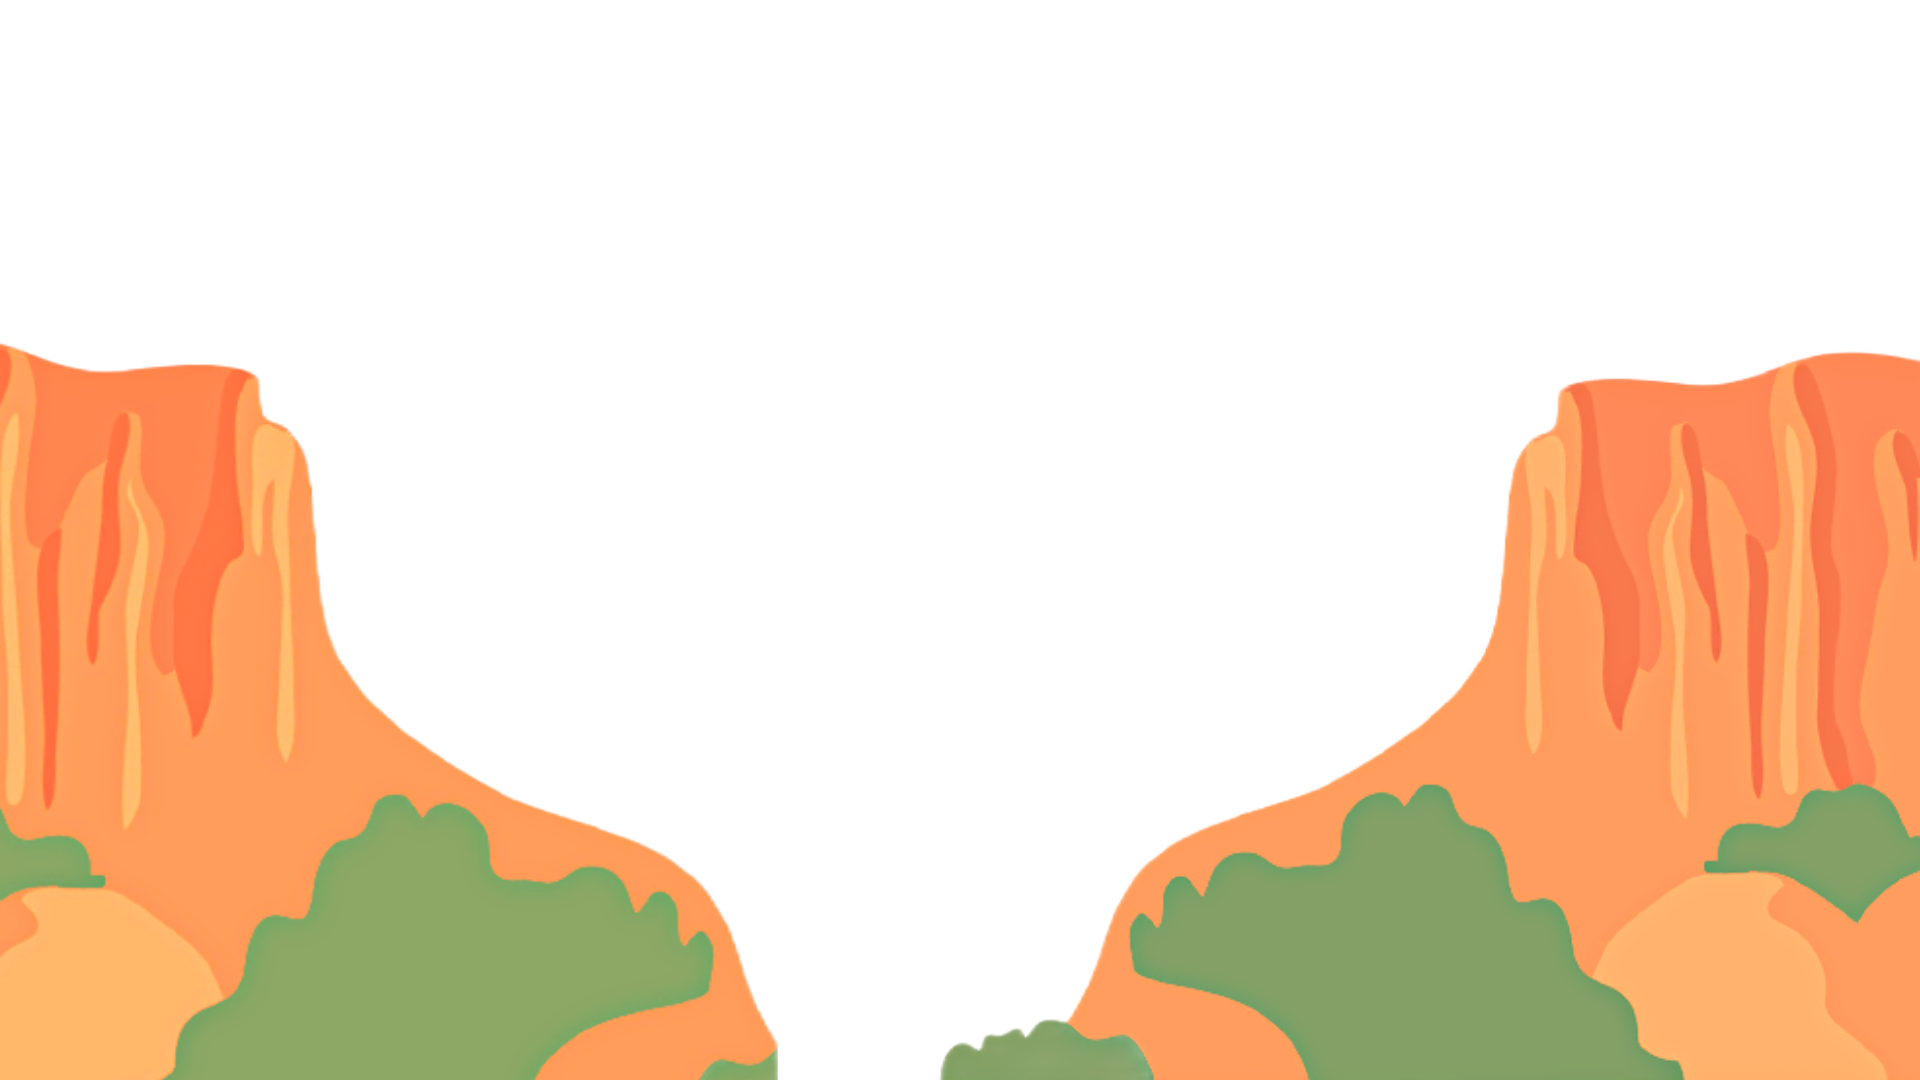
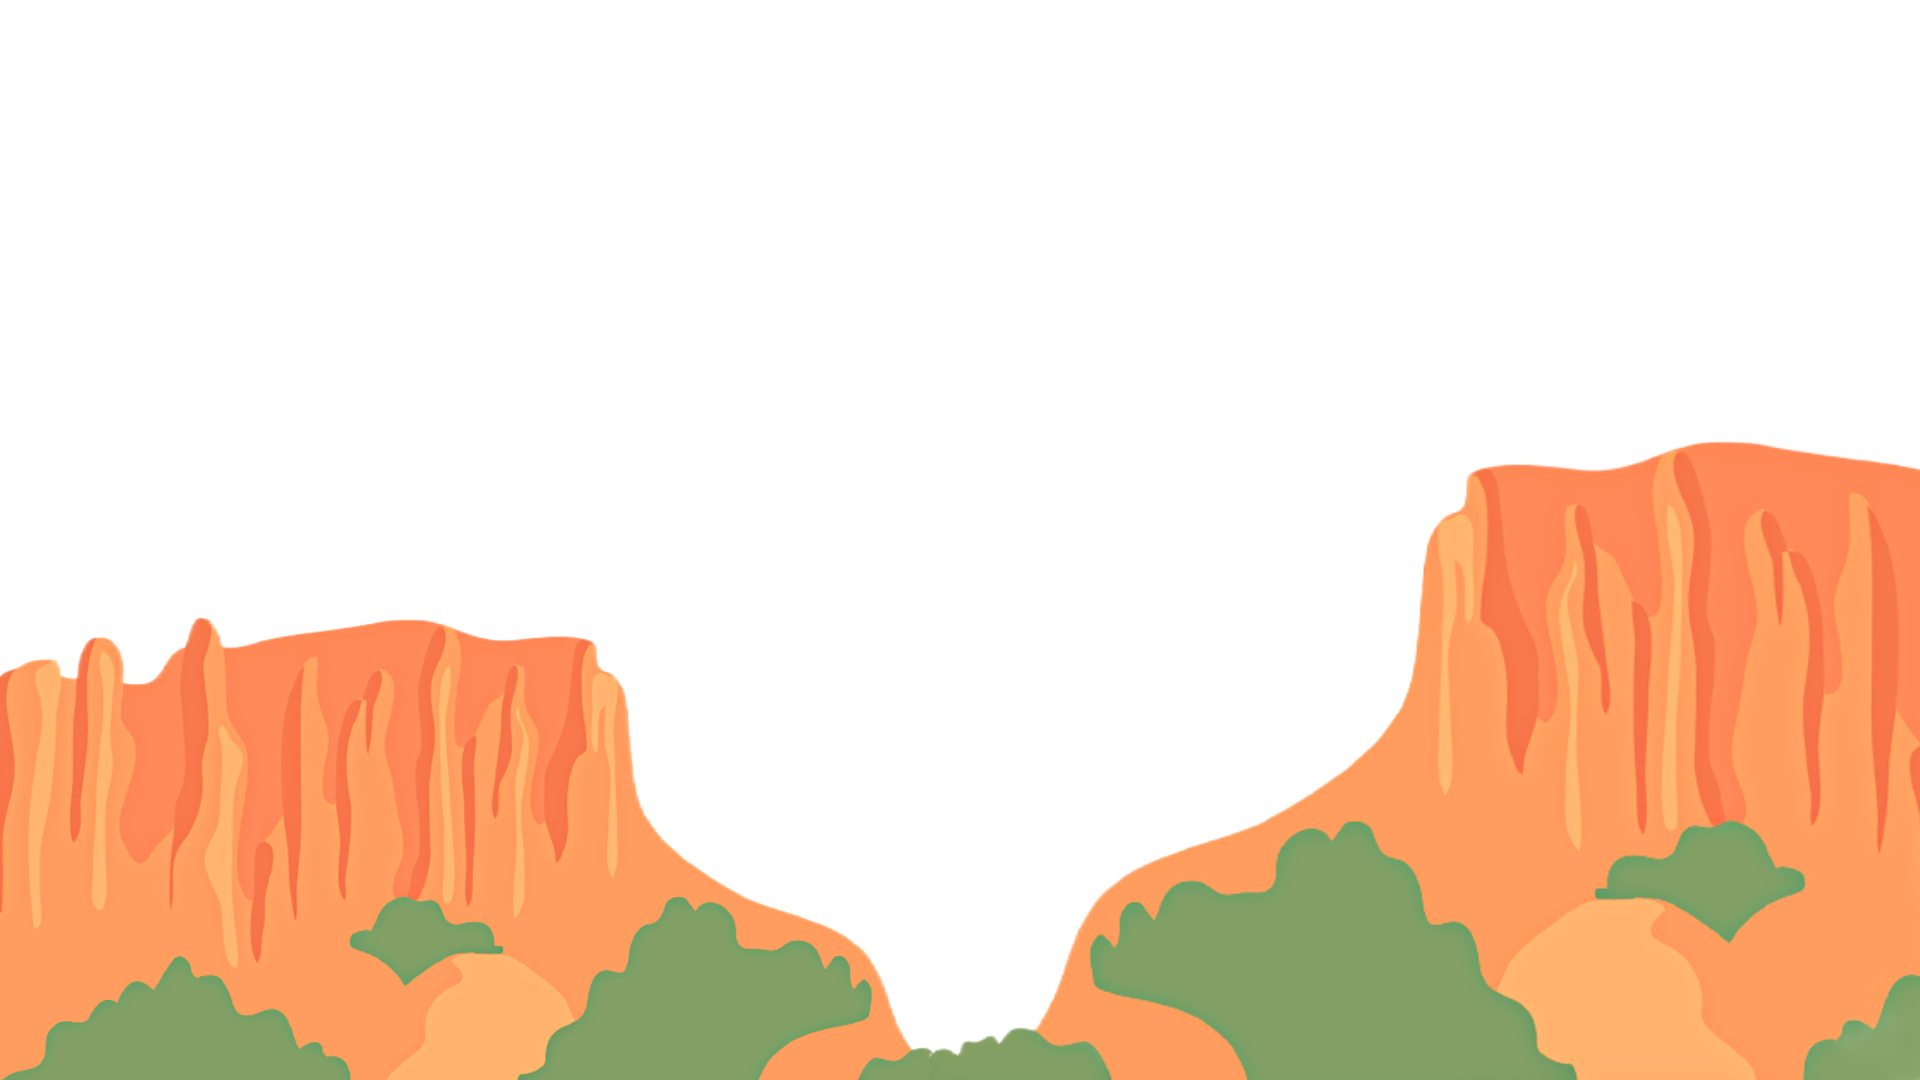
Changes to images and text properties for landing

Changed region(s): [[0.0, 0.3056, 1.0, 1.0], [0.9375, 0.8861, 1.0, 1.0]]

diff --git a/landing/index.html b/landing/index.html
@@ -5,11 +5,12 @@
     <meta http-equiv="X-UA-Compatible" content="IE=edge" />
     <meta name="viewport" content="width=device-width, initial-scale=1.0" />
     <title>Bhati: The Game</title>
+    <link rel="icon" type="image/x-icon" href="favicon.ico" />
     <link rel="stylesheet" type="text/css" href="style.css" />
   </head>
   <body>
     <header>
-      <a href="#" class="logo">LOGO</a>
+      <a href="#" class="logo"><img src="favicon.ico" /></a>
       <ul>
         <li><a href="#" class="active">Home</a></li>
         <li><a href="#">Contribute</a></li>
@@ -17,18 +18,17 @@
       </ul>
     </header>
     <section>
-      <img src="scene3.png" id="scenery" />
-      <img src="hill6.png" id="mountain" />
+      <img src="scene4.jpg" id="scenery" />
+      <img src="sun2.png" id="sun" />
       <h2 id="text">Bhati: The Game</h2>
       <a href="#sec" id="btn">Explore</a>
+      <img src="hill5.png" id="mountain" />
     </section>
     <div class="sec" id="sec">
-      <h2>Parallax Scrolling Effects</h2>
+      <h2>Happy Birthday Veere!!</h2>
       <p>
-        Lorem ipsum, dolor sit amet consectetur adipisicing elit. Vero iste
-        laboriosam justo sapiente voluptatum a, incidunt culpa quae.
-        Necessitatibus vero exercitationem accusantium nemo culpa ipsa tempora
-        quia? Aliquam, nemo doloribus. lorem<br /><br />
+        Birthday ki lakh lakh badhiya bhai sahab. Phulo phalo khush raho. Rab
+        Rakha.<br /><br />
         Lorem ipsum, dolor sit amet consectetur adipisicing elit. Vero iste
         laboriosam justo sapiente voluptatum a, incidunt culpa quae.
         Necessitatibus vero exercitationem accusantium nemo culpa ipsa tempora
@@ -41,14 +41,22 @@
     </div>
     <script>
       let scenery = document.getElementById("scenery");
+      let sun = document.getElementById("sun");
       let text = document.getElementById("text");
       let btn = document.getElementById("btn");
+      let mountain = document.getElementById("mountain");
+      let header = document.querySelector("header");
 
       window.addEventListener("scroll", function () {
         let value = window.scrollY;
         scenery.style.top = value * 0.5 + "px";
+        sun.style.top = value * 1 + "px";
+        mountain.style.top = value * 0 + "px";
 
         text.style.marginRight = value * 4 + "px";
+        text.style.marginTop = value * 1.4 + "px";
+        btn.style.marginTop = value * 1.58 + "px";
+        header.style.top = value * 0.5 + "px";
       });
     </script>
   </body>

diff --git a/landing/style.css b/landing/style.css
@@ -19,7 +19,7 @@ header
         top: 0;
         left: 0;
         width: 100%;
-        padding: 30px 100px;
+        padding: 30px 100px;            /* Maybe left/right padding can be changed */
         display: flex;
         justify-content: space-between;
         align-items: center;
@@ -33,6 +33,12 @@ header .logo
         font-size: 2em;
         text-transform: uppercase;
         Letter-spacing: 2px;
+}
+header .logo img {
+        width: 4rem;
+        cursor: pointer;
+        display: flex;
+        align-items: center;
 }
 header ul
 {
@@ -67,6 +73,7 @@ section
         display: flex;
         justify-content: center;
         align-items: center;
+        overflow: hidden;
 }
 section::before
 {
@@ -87,6 +94,10 @@ section img {
         object-fit: cover;
         pointer-events: none;
 }
+section img#sun {
+        mix-blend-mode: screen;
+        overflow: hidden;
+}
 section img#mountain {
         z-index: 10;
 }
@@ -95,9 +106,9 @@ section img#mountain {
     right: -350px;
     color: rgb(255, 255, 255);
     white-space: nowrap; 
-    font-size: 7.5vw;
+    font-size: 8.0vw;
     z-index: 9;
-    text-shadow:
+    /* text-shadow:
       0 0 7px #fff,
       0 0 10px #fff,
       0 0 21px #fff,
@@ -105,7 +116,7 @@ section img#mountain {
       0 0 82px rgb(215, 141, 247),
       0 0 92px rgb(215, 141, 247),
       0 0 102px rgb(215, 141, 247),
-      0 0 151px rgb(215, 141, 247);
+      0 0 151px rgb(215, 141, 247); */
 }
 #btn
 {
